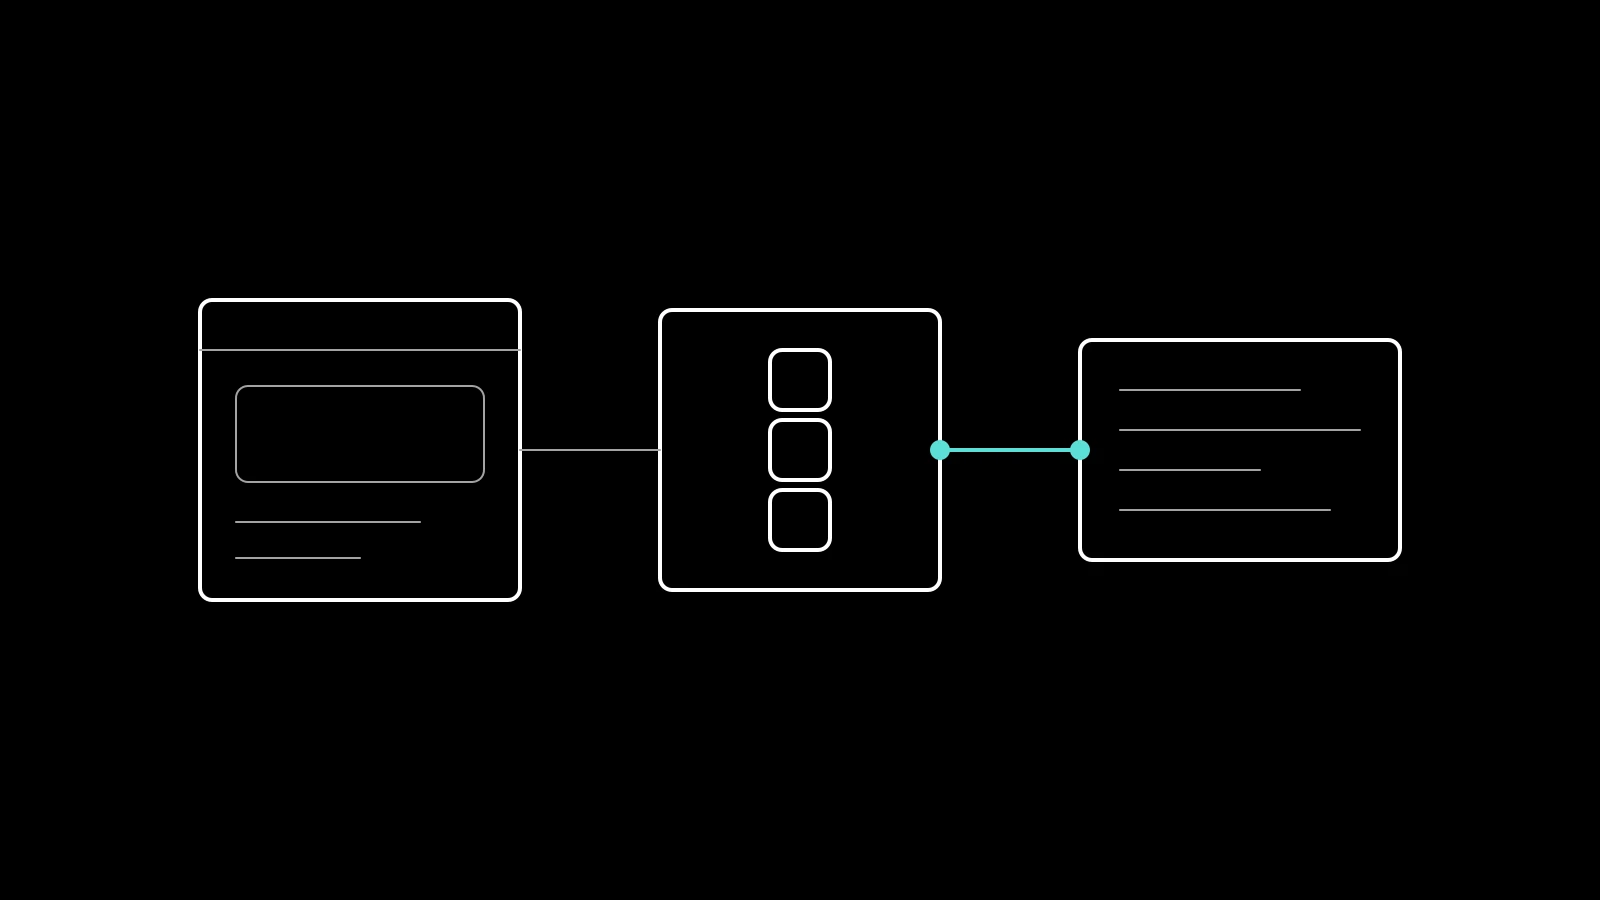
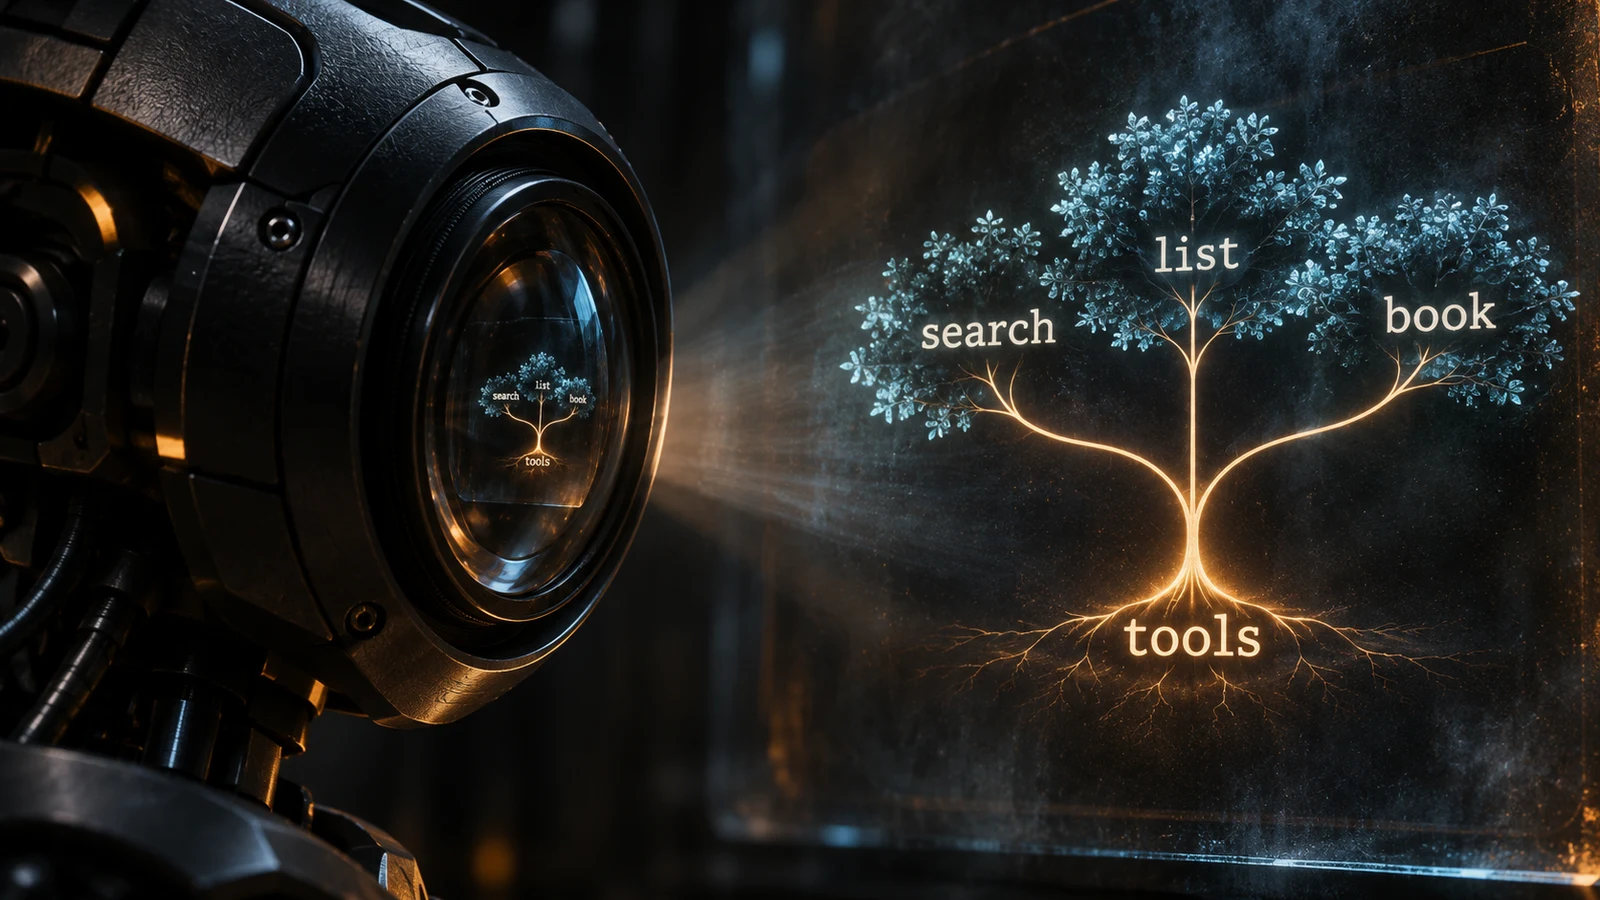
content(blog): new Building for Agents hero and palette-first hero spec

diff --git a/docs/agents/images.md b/docs/agents/images.md
@@ -4,71 +4,48 @@ Read [DESIGN.md](design/editorial-images.md) for the canonical direction. Read t
 
 ## Hero images (blog)
 
-A post **hero image** is optional editorial raster art referenced by MDX frontmatter `image`. Omit `image` when there is no hero yet; do not treat hero production as a prerequisite for adding or shipping a post. **In-article diagrams** (SVG under `public/images/diagrams/`, screenshots, and similar) explain the article and follow the diagram rules below; they are not hero images.
+A post **hero image** is an optional cinematic editorial photograph referenced by MDX frontmatter `image`. Omit `image` when there is no hero yet; do not treat hero production as a prerequisite for adding or shipping a post. **In-article diagrams** (SVG under `public/images/diagrams/`, screenshots, and similar) explain the article and follow the diagram rules below; they are not hero images.
 
-## Fixed production specification
+## Hero direction
 
-- Hero master: 1600 × 900, opaque sRGB, pure black `#000000` background, no outer frame or baked corner radius.
-- OG export: 1200 × 630. Recompose from the master; preserve all meaningful objects. Social post variants may be square or portrait when requested. Profile banners require their own platform-specific layout and avatar-safe area.
-- Artwork colors: white `#ffffff`, gray `#a3a3a3`, dark gray `#404040`, and turquoise `#5cded6`. Antialiasing may introduce intermediate edge pixels. No other intentional colors.
-- At 1600 × 900: 4px primary strokes, 2px secondary strokes, round caps and joins, 12px radius for rectangular containers. Scale these proportionally for other exports. Generated approximations must be visually consistent; use controlled vector construction when exact geometry is required.
-- Keep meaningful content inside an 80px inset on all sides. Leave at least one third of the canvas empty. Separate unrelated elements by at least 40px. Use a front-facing, flat view with no perspective or simulated depth.
-- One focal relationship per hero image, at most five principal objects or groups. Turquoise highlights that relationship or the subject; it is not an overall color wash. White carries primary structure; gray carries supporting detail.
-- No text, article titles, numbers, logos, watermarks, signature, or full-bleed decorative grid in generated hero artwork. No humans, robots, brains, cityscapes, floating dashboards, photorealism, 3D objects, shadows, bloom, grain, gradients, or extra accent colors.
-- Exact diagrams use SVG or controlled layout, with manually specified connections and labels. Use the site's monospace stack for SVG text. In-article diagrams live in `public/images/diagrams/` and scale to the content column width (no horizontal scroll), not as 16:9 cover crops. Canvas width, the three-size type scale, and node and edge styling are fixed in [In-article diagrams](design/editorial-images.md#in-article-diagrams); never size SVG text up to compensate for a narrow viewBox. Raster typography must use one explicitly selected installed monospace face consistently across the batch. Never ask the image model to typeset labels.
-- Preserve source artwork when available. Deliver WebP hero images at the paths referenced by frontmatter `image`, targeting at most 300 KB without visibly damaged edges. PNG may be used as an intermediate. Inspect the output; do not merely rename another format to `.webp`.
+A hero is a cinematic, photographic illustration of the article's idea. **Color is the only fixed constant**; scene, subject, setting, and metaphor change with every post. Past heroes range from a rocket launch and a futuristic city to a trading floor and a real photo, and that variety is intended. Do not default to "a person at a desk looking at glowing panels": use it only when the article is about that work, and never twice in a row.
+
+- **Idea first.** Start from the article's central claim and find a concrete, visual metaphor for it: a place, an object, an action, or a moment someone could photograph. A reader who knows the title should get the connection without a caption. Prefer surprising and specific over generic tech imagery.
+- **Palette (fixed).** Night or low light. Near-black, charcoal, and deep teal-green shadows; the site turquoise `#5cded6` as the light that marks the article's key element; one warm amber light (a lamp, a window, a doorway) as the only warm accent. No daylight, no other saturated hues, no blue or purple sci-fi light.
+- **Look.** Photographic detail, cinematic lighting, shallow depth of field. One clear focal point, with the turquoise element on it.
+- **People and machines.** People are optional and never Gabo or a recognizable real person. Show agents as light, motion, or objects rather than humanoid robots, unless the article is about robots.
+- **No text.** No legible or pseudo text, signage, numbers, logos, or brand UI anywhere. Image models garble text; the Context Engineering hero's headings are the failure to avoid.
+- **Framing.** Keep the focal element clear of the outer 6% so listing thumbnails keep it.
+
+## Production
+
+- Generate with an image model at its nearest 16:9 size, then resize to 1600 × 900; never stretch. Opaque sRGB, no baked corner radius, frame, or watermark.
+- Deliver WebP at the path in frontmatter `image` (`public/images/YYYY/MM/<slug>.webp`), at most 300 KB with no visible banding in the dark areas.
+- Generate two or three different concepts per post, not variations of one, and pick with the author.
+- Social previews keep the title-led blog OG card; a hero does not become the OG image unless the post sets `ogImage`.
+- In-article diagrams follow the flat SVG rules in [editorial-images.md](design/editorial-images.md#in-article-diagrams), not this direction.
 
 ## Fixed generation instruction
 
-Use this instruction unchanged, followed by exactly one approved composition below. Attach the first accepted hero image as a style reference for subsequent hero images; do not use the older cinematic hero artwork as style references.
+Write a `Scene:` paragraph for the concept, then append this instruction unchanged. Do not attach earlier heroes as references; they pull every image toward the same composition.
 
-> Create a flat editorial illustration for Gabo Esquivel's website. Landscape 16:9, target 1600 × 900. Pure black background. Use only white, neutral gray, dark gray, and turquoise #5cded6. Clean vector-like outlines, consistent round-ended strokes, sparse flat shapes, no perspective, no depth effects. At the target size use 4px primary strokes and 2px secondary strokes. Leave an 80px outer safe area and at least one third of the canvas empty. Turquoise identifies the main relationship or subject. Follow the supplied composition exactly. Draw only the specified objects. No text, letters, numbers, titles, logos, watermarks, people, robots, brains, cityscapes, dashboards, decorative code, grids, photography, 3D rendering, shadows, glow, glass, grain, gradients, or additional colors. Do not invent supporting objects or change the composition.
+> Cinematic photographic illustration, 16:9 landscape. Night or low light. Palette: near-black, charcoal, and deep teal-green shadows; soft mint turquoise light (#5cded6) on the key element of the scene; one warm amber light source as the only warm accent. Photographic detail, shallow depth of field, one clear focal point. Absolutely no readable text, letters, numbers, signage, logos, or user interface text anywhere. No daylight, no blue or purple light, no humanoid robots.
 
-These are text-free editorial metaphors, not substitutes for explanatory diagrams. Generation must not fabricate technical connections. If a requested image requires accurate labels or topology, build that portion deterministically.
+### Example: Building for Agents
 
-## First batch: three hero images
+Source: [article](../../content/2026-11-building-for-agents.mdx). Destination: `public/images/2026/11/building-for-agents.webp`.
 
-Generate in this order. Coordinates refer to the 1600 × 900 master. They specify object placement, not text to render. Keep the same stroke treatment and visual density across all three.
+Meaning: agents are a new kind of customer; the same business serves people through its front door and agents through a door built for them.
 
-### 1. Context Engineering
-
-Source: [article](../../content/2026-09-context-engineering.mdx). Destination: `public/images/2026/09/context-engineering.webp`.
-
-Meaning: the harness selects useful material for the model's current context; available information is not all included automatically.
-
-Composition: three small outlined document sheets form one source group at x=200–450, y=280–620. The top and bottom sheets are gray; the middle sheet is white. Each sheet has two short abstract horizontal strokes, no writing. A large white outlined rounded rectangle occupies x=650–1120, y=250–650 and represents the working context. Inside it, draw two small white document sheets neatly aligned. A single turquoise path runs from the middle source sheet through a turquoise opening in the rectangle's left boundary and ends at the first internal sheet. The unused source sheets have no connections. Leave the rightmost portion of the canvas empty. No arrows, additional nodes, or implied model-to-tool connections.
-
-Do not change the existing in-article harness diagram (`public/images/diagrams/2026-09-context-harness.svg`).
-
-### 2. Domain-Driven Design
-
-Source: [article](../../content/2026-10-domain-driven-design.mdx). Destination: `public/images/2026/10/domain-driven-design.webp`.
-
-Meaning: distinct contexts maintain their own internal models and connect through an explicit boundary.
-
-Composition: two equally sized white outlined rounded rectangles at x=260–660 and x=940–1340, both y=280–620. Inside the left rectangle place three small white circles in a triangle arrangement. Inside the right rectangle place three small white squares in a vertical arrangement. Use gray internal connections within each group. At the midpoint of each facing boundary, create one small turquoise port. Connect these two ports with exactly one straight horizontal turquoise line across the gap. No other connection crosses either boundary. No arrows, labels, enclosing third container, or extra modules.
-
-This is a boundary metaphor, not a literal architecture from a shipped project.
-
-### 3. Touch Grass, Activate Clarity
-
-Source: [article](../../content/2024-09-touch-grass.mdx). Destination: `public/images/2024/09/touch-grass.webp`.
-
-Meaning: deliberately leaving the screen for a morning walk creates space for reflection.
-
-Composition: one small gray outlined monitor with a black, empty screen and a simple stand at x=220–480, y=370–570. A single turquoise trail starts beneath and just to the right of the monitor at x=500, y=620, curves gently through x=800, y=560, and rises toward x=1120, y=400. Draw three sparse turquoise grass tufts beside the trail between x=820 and x=1180. Each tuft has three short strokes. Add one short gray curved hill contour near the trail's far end and one small white semicircle sun above that contour at approximately x=1190, y=320. Leave the upper half mostly empty. No desk, room, human figure, mountains, trees, arrows, productivity indicators, or return loop.
-
-The sunrise and trail come from the author's morning hike. Do not imply a medical outcome or a measured performance improvement.
+> Scene: a small shop on a quiet street at night, seen from across the road. On the left, a warm amber front door with a window display, a person walking in. On the right side of the same building, a narrow service hatch outlined in turquoise light, where small floating points of turquoise light arrive and leave carrying tiny parcels. Both openings lead into the same lit interior.
 
 ## Review and integration
 
-1. Check each hero image against its article and exact composition. Reject invented objects, misleading relationships, incorrect palette, inconsistent strokes, clutter, and any generated text.
-2. Inspect all three together at full size and at 320 × 180. Objects and the principal relationship must remain recognizable; the three hero images must feel related without becoming interchangeable.
-3. Produce a 1200 × 630 OG crop preview for each, keeping every meaningful object visible. This preview verifies crop safety; do not add new metadata fields or exports to the site during this batch.
-4. Replace only the three destination WebP files after review. Their existing frontmatter and inline references already point to those paths. Leave article text, diagrams, dates, metadata, routes, and listing components unchanged.
-5. Follow [checks.md](checks.md) and [verify.md](verify.md) for the affected pages. Confirm image dimensions, format, size, browser rendering, and social crop previews. Report actual checks and any unavailable generation or browser capability; do not claim generation or visual verification succeeded without evidence.
-
-This batch establishes the first reusable visual references. Profile banners, logos, and additional post replacements require separate briefs.
+1. Check the output against the article's meaning and the `Scene:` paragraph. Reject legible or pseudo text, extra light colors, off-topic imagery, and clutter.
+2. View it at full size and at 320 × 180. The palette should match the site, the idea should still read small, and the scene should differ from the last few heroes.
+3. Preview the 1200 × 630 center crop and confirm the focal element survives it.
+4. Set frontmatter `image` and, when the post shows the hero in the body, the same path in an image with alt text that describes the scene and the idea.
+5. Follow [checks.md](checks.md) and [verify.md](verify.md) for the post. Report actual checks; do not claim generation or visual verification without evidence.
 
 ## Homepage/default OG
 

diff --git a/docs/agents/design/editorial-images.md b/docs/agents/design/editorial-images.md
@@ -4,17 +4,13 @@ Surface detail split from [DESIGN.md](../../../DESIGN.md), which holds the ident
 
 ## Editorial images
 
-Every editorial image communicates a specific idea from its article. Technical images show meaningful structures and relationships. Reflective images express the central experience through a clear visual metaphor. Both use the same palette, drawing style, spacing, and compositional discipline.
+Every editorial image communicates a specific idea from its article. There are two kinds, each with one style.
 
-The approved direction is flat, diagram-like editorial illustration: pure black canvas, white and neutral-gray shapes and lines, and turquoise `#5cded6` marking the important relationship or subject. Use sparse, recognizable objects, clear boundaries, generous negative space, and consistent strokes. No dimensional rendering, shadows, glow, glass, grain, gradients, futuristic offices, robots, decorative code, or technology-logo collages. Organic subjects such as grass and trails use the same simplified drawing language. Photography and real project screenshots remain evidence and retain their original character.
+**Hero images** are cinematic, photographic illustrations of the article's idea. Color is the one constant: night or low light, near-black and deep teal shadows, the site turquoise `#5cded6` on the key element, and one warm amber light. Scene, subject, and metaphor change with every post, and the series is meant to vary; a person at a desk with glowing panels is one option, not the template. No legible or pseudo text, logos, daylight, or other saturated colors.
 
-Choose the visual structure from the content:
+**In-article diagrams** are flat and exact: pure black canvas, white and gray structure, turquoise for the one important relationship, and the site monospace for labels, as specified below. Photography and real project screenshots remain evidence and retain their original character.
 
-- Technical explanation: components, boundaries, connections, or flow.
-- Engineering perspective: a comparison, tradeoff, progression, or feedback loop.
-- Personal reflection: a concrete visual metaphor grounded in the author's account. Do not turn personal experience into a scientific causal claim.
-
-Use image generation for conceptual artwork. Construct exact diagrams, arrows, labels, and factual relationships with SVG or another controlled layout tool. Add any typography after generation; never rely on generated text. In-article diagrams in `public/images/diagrams/` use this palette and the site monospace, and the page scales them to the content column width so they stay readable without horizontal scroll. Hero images do not contain the article title, logos, or a signature. No new triangle mark or monogram is approved. Social assets may use the author's name or domain as typeset attribution.
+Use image generation for hero images. Construct exact diagrams, arrows, labels, and factual relationships with SVG or another controlled layout tool. Add any typography after generation; never rely on generated text. In-article diagrams in `public/images/diagrams/` use this palette and the site monospace, and the page scales them to the content column width so they stay readable without horizontal scroll. Hero images do not contain the article title, logos, or a signature. No new triangle mark or monogram is approved. Social assets may use the author's name or domain as typeset attribution.
 
 ## In-article diagrams
 
@@ -32,4 +28,4 @@ A **hero image** is the optional editorial raster for a blog post (`image` in MD
 
 Produce blog hero images at 1600 × 900 and OG compositions at 1200 × 630. Recompose for other formats; do not stretch or blindly crop. The palette and geometry stay consistent across the website, LinkedIn, and X. Existing assets are not automatically approved references, and this policy does not authorize a bulk replacement of older images or changes to listing layouts.
 
-Production specifications, the fixed generation brief, and the first three hero-image briefs live in [docs/agents/images.md](../images.md). This is the current direction for new editorial imagery; existing assets migrate only in explicitly scoped tasks.
+The hero direction, production specification, fixed generation instruction, and a worked brief live in [docs/agents/images.md](../images.md). This is the current direction for new editorial imagery; existing assets migrate only in explicitly scoped tasks.
